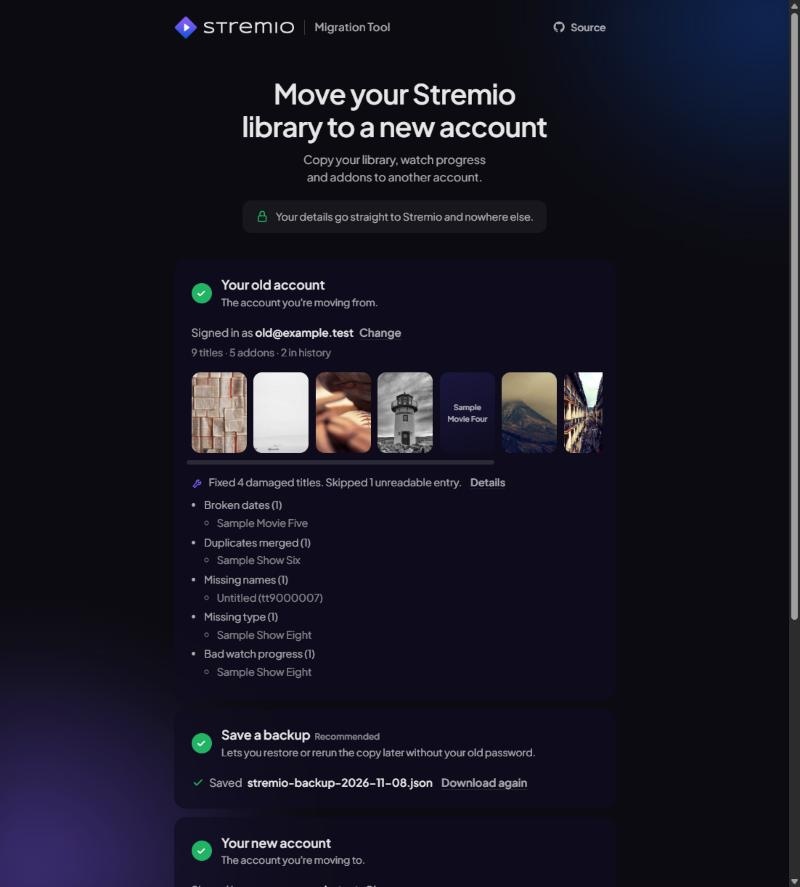
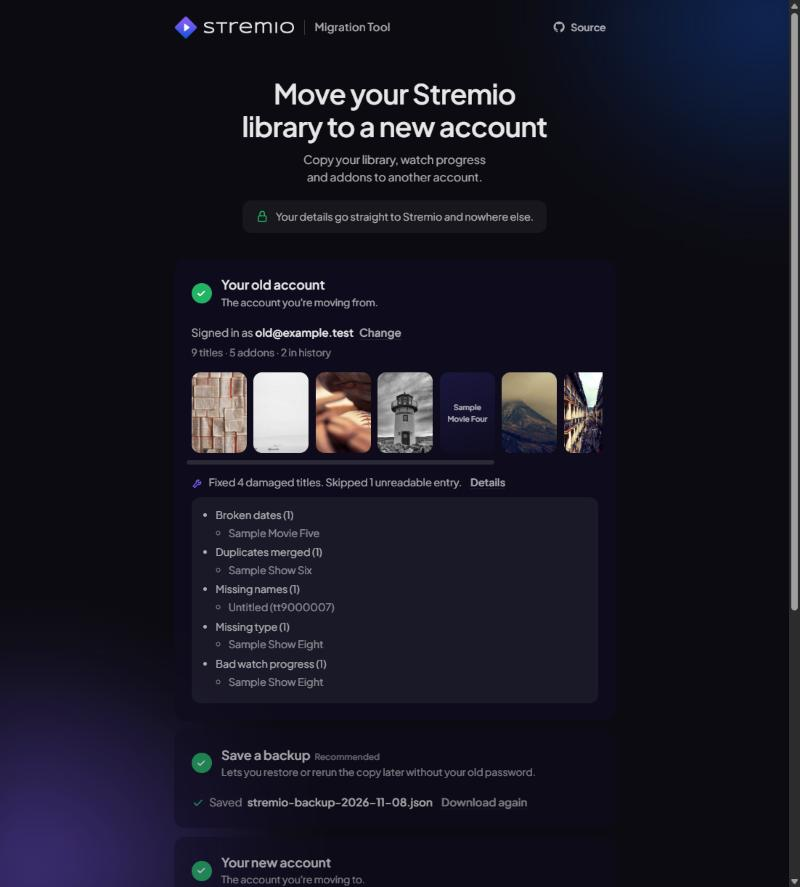
Box the fix details and replace comments with a short set
Put the list of fixed titles in a box. Remove the old comments and add
section markers plus a few one-line comments that explain why, not what.

diff --git a/index.html b/index.html
@@ -12,7 +12,7 @@
 <link rel="preconnect" href="https://fonts.gstatic.com" crossorigin>
 <link href="https://fonts.googleapis.com/css2?family=Plus+Jakarta+Sans:wght@400;500;600;700&display=swap" rel="stylesheet">
 <style>
-  /* Tokens match Stremio's web app */
+  /* Colour tokens from Stremio's web app */
   :root {
     --primary-background-color: #0c0b11;
     --secondary-background-color: #1a173e;
@@ -45,7 +45,6 @@
     color: var(--primary-foreground-color);
     overflow-x: hidden;
   }
-  /* Blurred colour fields, same idea as Stremio's sign-in screen */
   body::before {
     content: '';
     position: fixed;
@@ -63,12 +62,10 @@
   [hidden] { display: none !important; }
   svg { flex: none; }
 
-  /* Top bar */
   .topbar-inner {
     max-width: 40rem; margin: 0 auto; padding: 1.25rem 1rem;
     display: flex; align-items: center; gap: 0.75rem;
   }
-  /* Logo lockup: symbol, wordmark, divider, product name */
   .brand { display: flex; align-items: center; min-width: 0; }
   .brand-mark { width: 2rem; height: 2rem; flex: none; }
   .wordmark { flex: none; height: 1rem; width: auto; margin-left: 0.6rem; opacity: 0.92; }
@@ -82,7 +79,6 @@
   .topbar-link:hover { color: var(--primary-foreground-color); background: var(--overlay-color); }
   .topbar-link svg { width: 1.15rem; height: 1.15rem; }
 
-  /* Page */
   main { max-width: 40rem; margin: 0 auto; padding: 2rem 1rem 3rem; }
   .hero { text-align: center; margin-bottom: 2.25rem; }
   .hero h1 {
@@ -98,7 +94,6 @@
   }
   .trust svg { width: 1.15rem; height: 1.15rem; color: var(--secondary-accent-color); }
 
-  /* Step cards */
   .card {
     margin-bottom: 0.75rem; padding: 1.5rem;
     border-radius: 1rem; background: var(--card-color);
@@ -123,7 +118,6 @@
   .card.is-done .badge svg { display: block; }
   .optional { font-size: 0.75rem; font-weight: 600; color: var(--text-faint); margin-left: 0.35rem; }
 
-  /* Forms */
   .field { position: relative; margin-bottom: 0.75rem; }
   .field label { display: block; margin-bottom: 0.4rem; font-size: 0.85rem; font-weight: 600; color: var(--text-dim); }
   .field .icon {
@@ -154,7 +148,6 @@
   .reveal[aria-pressed="true"] .eye { display: none; }
   .reveal[aria-pressed="true"] .eye-off { display: block; }
 
-  /* Buttons */
   .btn {
     display: inline-flex; align-items: center; justify-content: center; gap: 0.6rem;
     min-height: 3.5rem; padding: 0 1.75rem; border: 0; border-radius: 3.5rem;
@@ -192,7 +185,6 @@
   .form-foot a { color: var(--text-dim); text-underline-offset: 3px; text-decoration-color: var(--overlay-strong); font-weight: 600; }
   .form-foot a:hover { color: var(--primary-foreground-color); }
 
-  /* Messages */
   .msg { display: flex; gap: 0.5rem; align-items: flex-start; margin: 0.9rem 0 0; font-size: 0.92rem; }
   .msg:empty { display: none; }
   .msg svg { width: 1.1rem; height: 1.1rem; margin-top: 0.15rem; }
@@ -203,12 +195,11 @@
   .help summary:hover { color: var(--primary-foreground-color); }
   .help p { margin: 0.6rem 0 0; color: var(--text-dim); }
 
-  /* Signed-in summary */
   .account { margin: 0; color: var(--text-dim); font-size: 0.95rem; }
   .account strong { color: var(--primary-foreground-color); font-weight: 600; word-break: break-all; }
   .account .link-btn { margin-left: 0.5rem; }
   .meta { margin: 0.35rem 0 0; color: var(--text-faint); font-size: 0.875rem; }
-  /* Padding leaves room for the hover lift inside the scroll area */
+  /* Padding gives the hover lift room inside the scroll area */
   .posters {
     display: flex; gap: 0.6rem; margin: 0.5rem -0.4rem 0; padding: 0.55rem 0.4rem 0.6rem;
     overflow-x: auto; scroll-snap-type: x proximity; scroll-padding-inline: 0.4rem;
@@ -251,6 +242,8 @@
   .check summary::-webkit-details-marker { display: none; }
   .check summary:hover { color: var(--primary-foreground-color); }
   .check ul { margin: 0.6rem 0 0; padding-left: 1.1rem; }
+  .check > ul { padding: 0.85rem 1rem 0.85rem 2.1rem; border-radius: var(--border-radius); background: var(--overlay-color); }
+  .check > ul > li:last-child { margin-bottom: 0; }
   .check li { margin-bottom: 0.3rem; }
   .check li ul { margin-top: 0.2rem; color: var(--text-faint); }
 
@@ -261,7 +254,6 @@
   .skip-line { margin: 0.9rem 0 0; text-align: center; font-size: 0.875rem; }
   .card.is-skipped .badge { background: var(--overlay-strong); color: var(--text-dim); }
 
-  /* Copy step */
   .options { display: grid; gap: 0.9rem; }
   .option { display: flex; gap: 0.8rem; align-items: flex-start; cursor: pointer; }
   .option input { position: absolute; opacity: 0; width: 1px; height: 1px; }
@@ -332,7 +324,6 @@
       <p class="trust"><svg viewBox="0 0 24 24" fill="none" stroke="currentColor" stroke-width="2" stroke-linecap="round" stroke-linejoin="round" aria-hidden="true"><rect x="5" y="11" width="14" height="10" rx="2"/><path d="M8 11V7a4 4 0 0 1 8 0v4"/></svg>Your details go straight to Stremio and nowhere else.</p>
     </section>
 
-    <!-- Step 1: old account -->
     <section class="card" id="card-source" aria-labelledby="source-title">
       <header class="card-head">
         <span class="badge" aria-hidden="true"><span>1</span><svg viewBox="0 0 24 24" fill="none" stroke="currentColor" stroke-width="3" stroke-linecap="round" stroke-linejoin="round"><path d="M5 12.5l4.5 4.5L19 7.5"/></svg></span>
@@ -375,7 +366,6 @@
       </div>
     </section>
 
-    <!-- Step 2: backup -->
     <section class="card" id="card-backup" aria-labelledby="backup-title">
       <header class="card-head">
         <span class="badge" aria-hidden="true"><span>2</span><svg viewBox="0 0 24 24" fill="none" stroke="currentColor" stroke-width="3" stroke-linecap="round" stroke-linejoin="round"><path d="M5 12.5l4.5 4.5L19 7.5"/></svg></span>
@@ -396,7 +386,6 @@
       </div>
     </section>
 
-    <!-- Step 3: new account -->
     <section class="card" id="card-dest" aria-labelledby="dest-title">
       <header class="card-head">
         <span class="badge" aria-hidden="true"><span>3</span><svg viewBox="0 0 24 24" fill="none" stroke="currentColor" stroke-width="3" stroke-linecap="round" stroke-linejoin="round"><path d="M5 12.5l4.5 4.5L19 7.5"/></svg></span>
@@ -436,7 +425,6 @@
       </div>
     </section>
 
-    <!-- Step 4: copy -->
     <section class="card" id="card-migrate" aria-labelledby="migrate-title">
       <header class="card-head">
         <span class="badge" aria-hidden="true"><span>4</span><svg viewBox="0 0 24 24" fill="none" stroke="currentColor" stroke-width="3" stroke-linecap="round" stroke-linejoin="round"><path d="M5 12.5l4.5 4.5L19 7.5"/></svg></span>
@@ -503,7 +491,7 @@
       alert: '<svg viewBox="0 0 24 24" fill="none" stroke="currentColor" stroke-width="2" stroke-linecap="round" stroke-linejoin="round" aria-hidden="true"><circle cx="12" cy="12" r="9"/><path d="M12 7.5v5.5"/><path d="M12 16.5h.01"/></svg>',
     };
 
-    // ---------- Stremio API ----------
+    // Stremio API
 
     class FriendlyError extends Error {
       constructor(message, kind) {
@@ -578,8 +566,7 @@
       },
     };
 
-    // ---------- Library checks and repairs ----------
-    // Rules follow stremio-core's LibraryItem: one bad item can stop the whole library from loading.
+    // Library checks
 
     function isValidDate(value) {
       return typeof value === 'string' && value !== '' && !Number.isNaN(Date.parse(value));
@@ -605,6 +592,7 @@
       return typeof videoId === 'string' && videoId.split(':').length >= 3 ? 'series' : 'movie';
     }
 
+    // Stremio apps drop the whole library if one item breaks these rules
     function repairItem(raw, report) {
       const item = { ...raw };
       const fixes = [];
@@ -710,8 +698,6 @@
       return { inLibrary, history: items.length - inLibrary };
     }
 
-    // ---------- Backup files ----------
-
     function backupFileName() {
       const now = new Date();
       const pad = (n) => String(n).padStart(2, '0');
@@ -733,14 +719,14 @@
       return { items, addons, account };
     }
 
-    // ---------- State ----------
+    // State
 
     const state = {
-      source: null, // { kind, authKey, userId, email, fileName, rawItems, rawAddons, items, addons, report, skippedAddons }
+      source: null,
       backupName: null,
       backupSkipped: false,
-      pendingRepair: false, // Fix in this account waits for the backup step
-      dest: null, // { authKey, userId, email, items, addons }
+      pendingRepair: false,
+      dest: null,
       options: { library: true, addons: true },
       busy: false,
       result: null,
@@ -752,7 +738,7 @@
       return !!a.email && !!b.email && a.email.toLowerCase() === b.email.toLowerCase();
     }
 
-    // Same account on both sides: rewrite damaged titles in place
+    // Same account on both sides means repair in place
     function isRepairMode() {
       return isSameAccount(state.source, state.dest);
     }
@@ -763,7 +749,7 @@
       const repair = isRepairMode();
       const stamp = new Date().toISOString();
 
-      // Newest copy per ID, so stored duplicates don't look like pending updates
+      // Compare with the newest copy when an ID is stored twice
       const destById = new Map();
       for (const item of dest.items.filter(isPlainObject)) {
         const existing = destById.get(item._id);
@@ -780,7 +766,7 @@
           changes.push(item);
           added++;
         } else if (repair && source.report.brokenIds.has(item._id)) {
-          // Newer mtime makes Stremio apps pull the fixed copy. Duplicates alone can't be fixed by a rewrite
+          // A newer _mtime makes Stremio apps replace their cached copy
           changes.push({ ...item, _mtime: stamp });
           fixed++;
         } else if (timeOf(item._mtime) > timeOf(existing._mtime)) {
@@ -795,7 +781,7 @@
       const destUrls = new Set(cleanDest.addons.map((addon) => addon.transportUrl));
       const sourceUrls = new Set(source.addons.map((addon) => addon.transportUrl));
       const newAddons = source.addons.filter((addon) => !destUrls.has(addon.transportUrl)).length;
-      // Old account order first, then anything only the new account has
+      // Keep the old addon order, then add extras from the new account
       const merged = [...source.addons, ...cleanDest.addons.filter((addon) => !sourceUrls.has(addon.transportUrl))];
 
       return {
@@ -809,7 +795,7 @@
       return `${n.toLocaleString()} ${n === 1 ? one : (many || `${one}s`)}`;
     }
 
-    // ---------- DOM helpers ----------
+    // Rendering
 
     const $ = (id) => document.getElementById(id);
 
@@ -944,20 +930,17 @@
         container.append(list);
       }
 
-      // Offer an in-place repair when the old account itself is damaged
       if (source.kind === 'account' && report.brokenIds.size && !state.dest) {
         line.append(linkButton('Fix in this account', useSourceAsDest));
       }
     }
-
-    // ---------- Rendering ----------
 
     function backupHandled() {
       const { source } = state;
       return !!source && (source.kind === 'file' || !!state.backupName || state.backupSkipped);
     }
 
-    // Steps unlock in order. The backup step must be saved or skipped first
+    // Each step unlocks when the previous one is done. A skipped backup counts as done
     function renderSteps() {
       const backup = backupHandled();
       const done = {
@@ -1021,7 +1004,6 @@
       return (state.options.library ? plan.library.changes.length : 0) + (state.options.addons && plan.addons.write ? 1 : 0);
     }
 
-    // Reason the copy can't run yet, once both accounts are ready
     function planBlocker(plan) {
       if (!plan) return 'locked';
       if (!state.options.library && !state.options.addons) return 'Choose something to copy';
@@ -1050,7 +1032,6 @@
     function renderPlanNote(plan) {
       const note = $('plan-note');
       note.replaceChildren();
-      // Only a repair writes to the old account, so only then is a backup pressing
       const needsBackup = plan.repair && plannedWork(plan) > 0 && state.source.kind !== 'file' && !state.backupName;
       note.className = needsBackup ? 'note is-warn' : 'note';
       if (needsBackup) {
@@ -1076,7 +1057,6 @@
         renderPlanNote(plan);
       }
 
-      // When there is nothing to do, the disabled button says why
       const button = $('migrate');
       button.disabled = !!blocker || state.busy;
       button.hidden = state.busy || finished;
@@ -1118,7 +1098,6 @@
         return;
       }
 
-      // Card badge already shows success, so no heading here
       const summary = el('p');
       if (result.repair) {
         summary.append(el('strong', '', count(result.verifiedTitles || 0, 'title')), ' fixed and verified. Restart Stremio on your devices to reload the library.');
@@ -1147,7 +1126,7 @@
       if (target) target.focus({ preventScroll: true });
     }
 
-    // ---------- Actions ----------
+    // Actions
 
     function readCredentials(prefix) {
       const emailInput = $(`${prefix}-email`);
@@ -1251,7 +1230,7 @@
 
     function changeSource() {
       if (state.busy) return;
-      // A shared session means step 3 used this same sign-in
+      // Repair mode shares this session, so clear step 3 too
       if (state.dest && state.source && state.dest.authKey === state.source.authKey) state.dest = null;
       if (state.source && state.source.authKey) stremio.logout(state.source.authKey);
       state.source = null;
@@ -1311,7 +1290,6 @@
       advanceFromBackup(true, 'backup-late');
     }
 
-    // Move on to the next step the first time the backup step is handled
     function advanceFromBackup(firstTime, focusId) {
       if (state.pendingRepair) return useSourceAsDest();
       render();
@@ -1405,6 +1383,7 @@
           doneSteps += WRITE_BATCH_SIZE;
         }
 
+        // Read the account back to confirm each item arrived
         setProgress('Verifying', doneSteps / totalSteps);
         const [destItems, destAddons] = await Promise.all([stremio.getLibrary(dest.authKey), stremio.getAddons(dest.authKey)]);
         dest.items = destItems;
@@ -1420,7 +1399,7 @@
         let verifiedTitles = checkTitles ? source.items.length - missingTitles : null;
 
         if (plan.repair) {
-          // Titles written in place must now pass the same checks
+          // Rewritten titles must now pass the same checks
           const recheck = repairLibrary(destItems).report.brokenIds;
           const stillBroken = changes.filter((item) => recheck.has(item._id)).length;
           missingTitles += stillBroken;
@@ -1428,7 +1407,6 @@
         }
         state.result = { ok: !missingTitles && !missingAddons, repair: plan.repair, verifiedTitles, verifiedAddons: checkAddons ? source.addons.length - missingAddons : null, missingTitles, missingAddons };
         if (plan.repair && state.result.ok && source.kind === 'account') {
-          // Reflect the repaired account in step 1
           const { backupName, backupSkipped, result } = state;
           loadSource({ ...source, rawItems: destItems, rawAddons: destAddons });
           state.backupName = backupName;
@@ -1443,8 +1421,6 @@
         $('migrate-result').focus();
       }
     }
-
-    // ---------- Wiring ----------
 
     function wireRevealButtons() {
       for (const button of document.querySelectorAll('.reveal')) {
